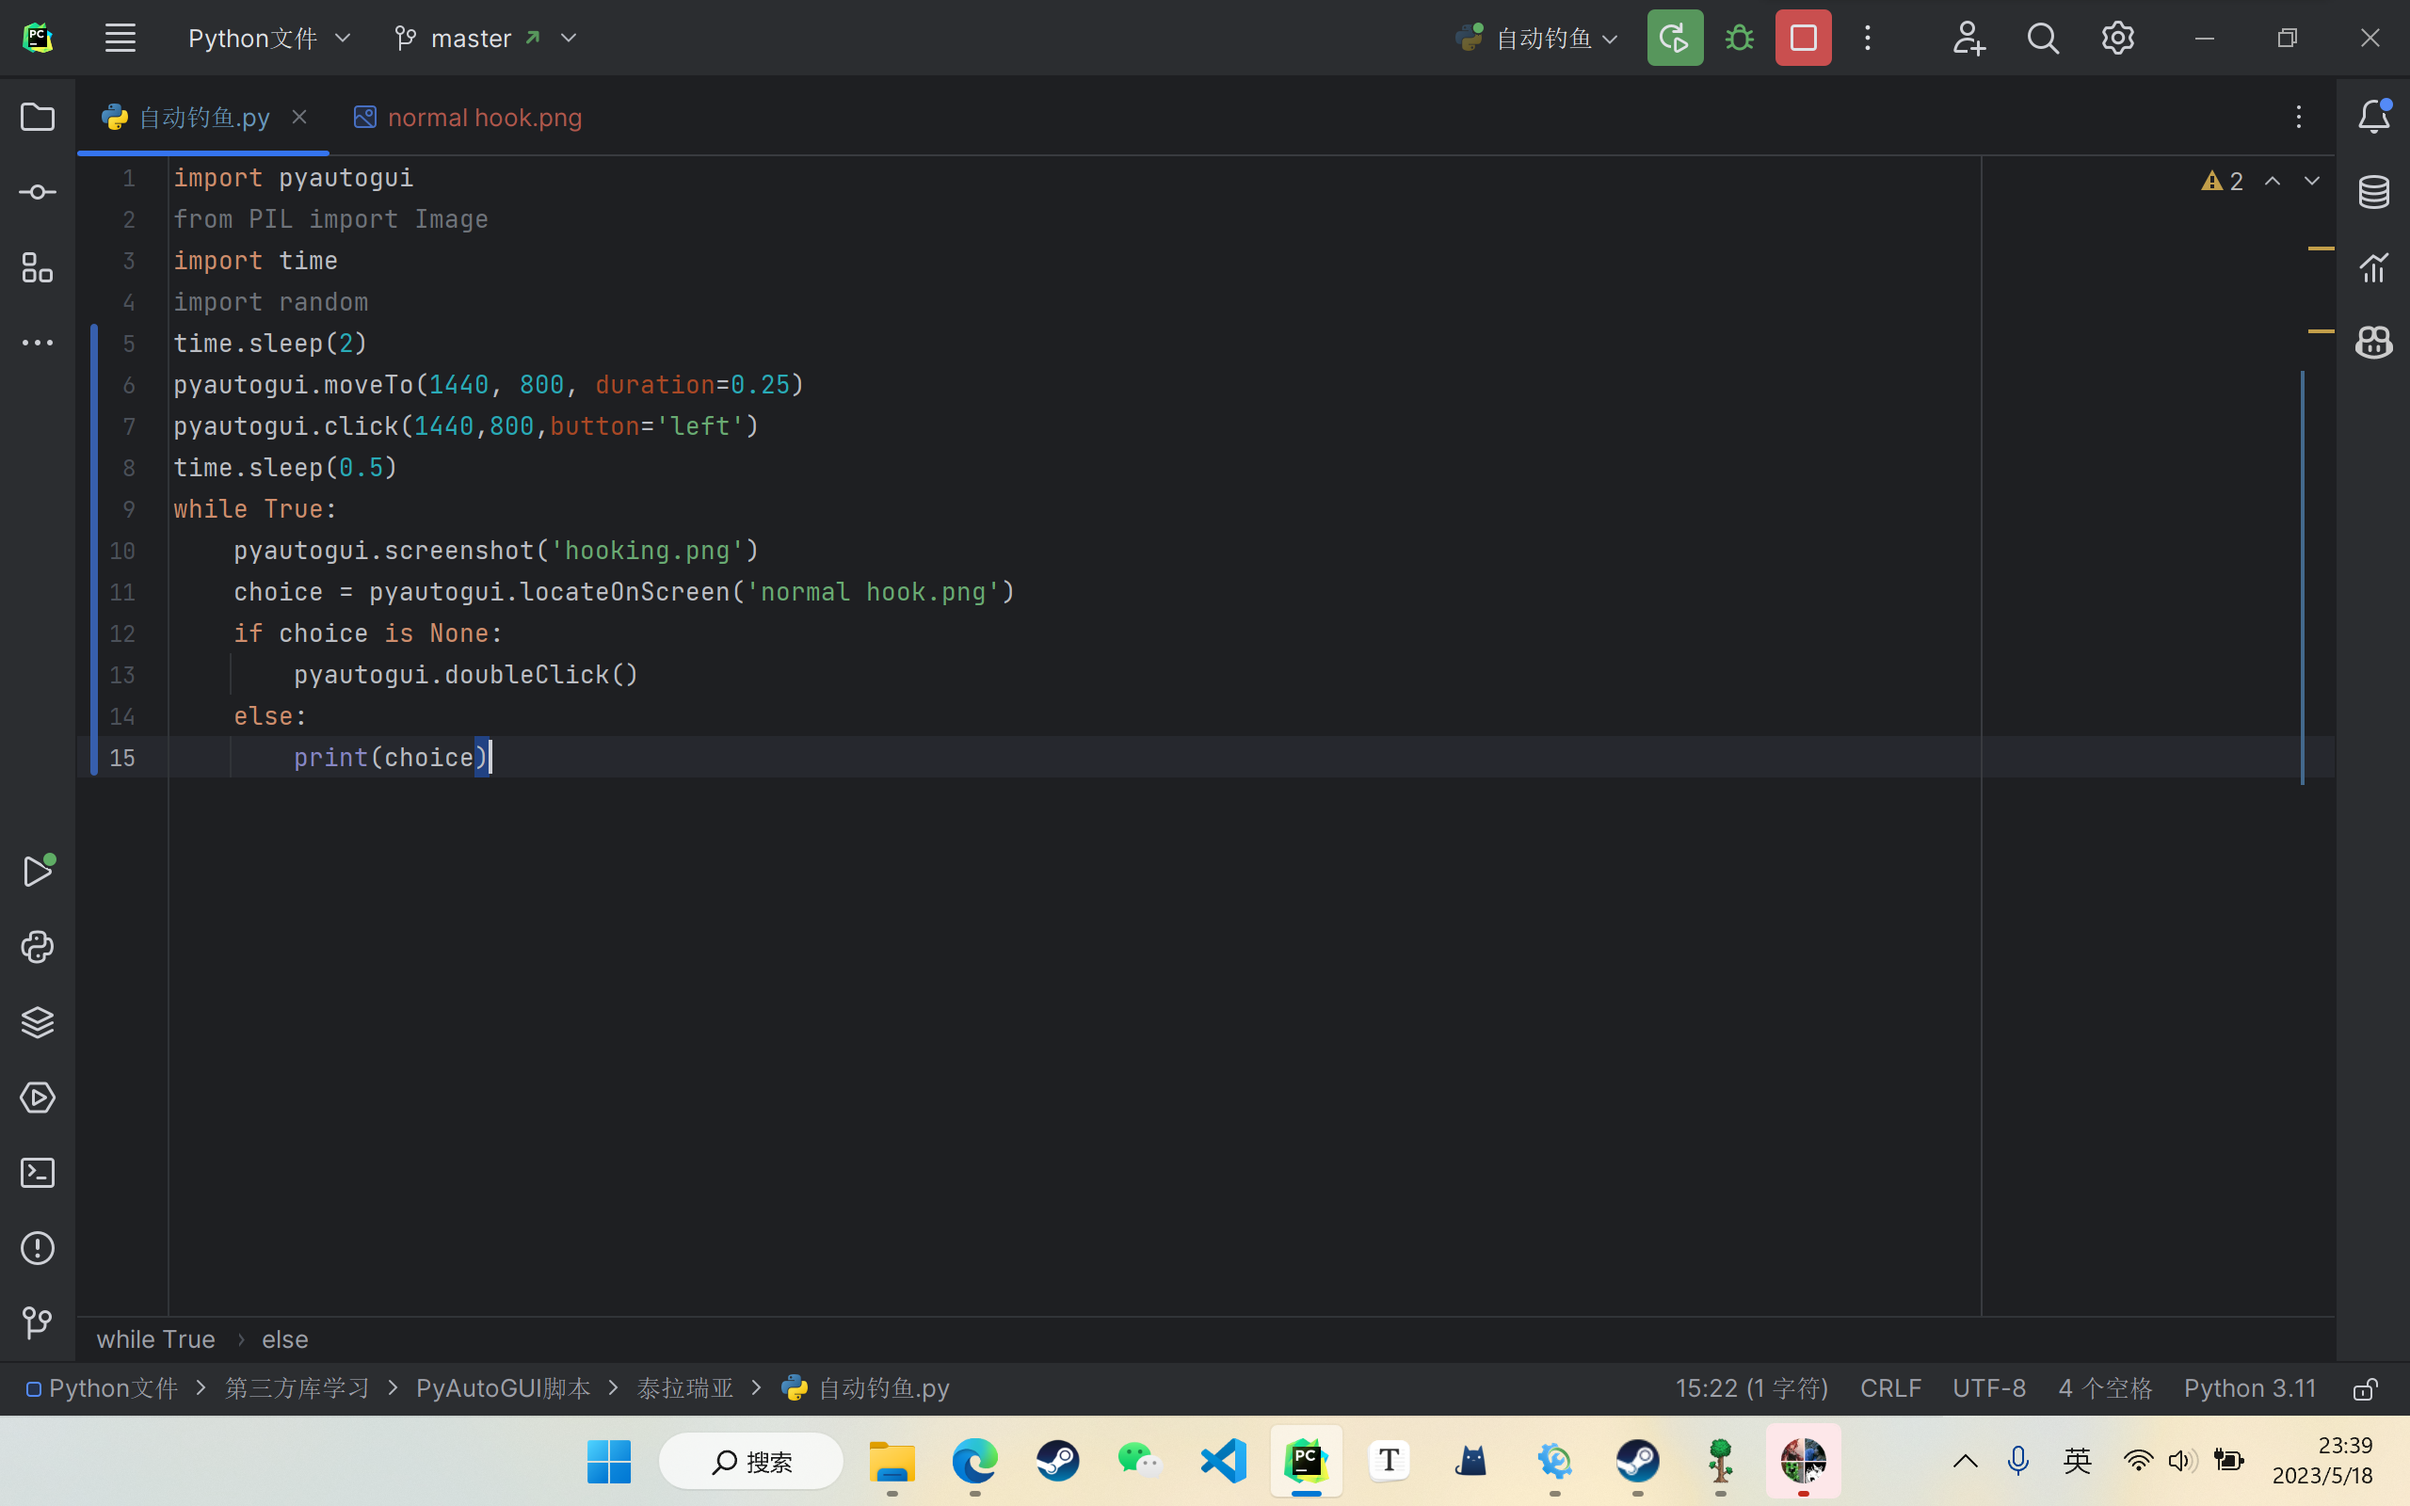
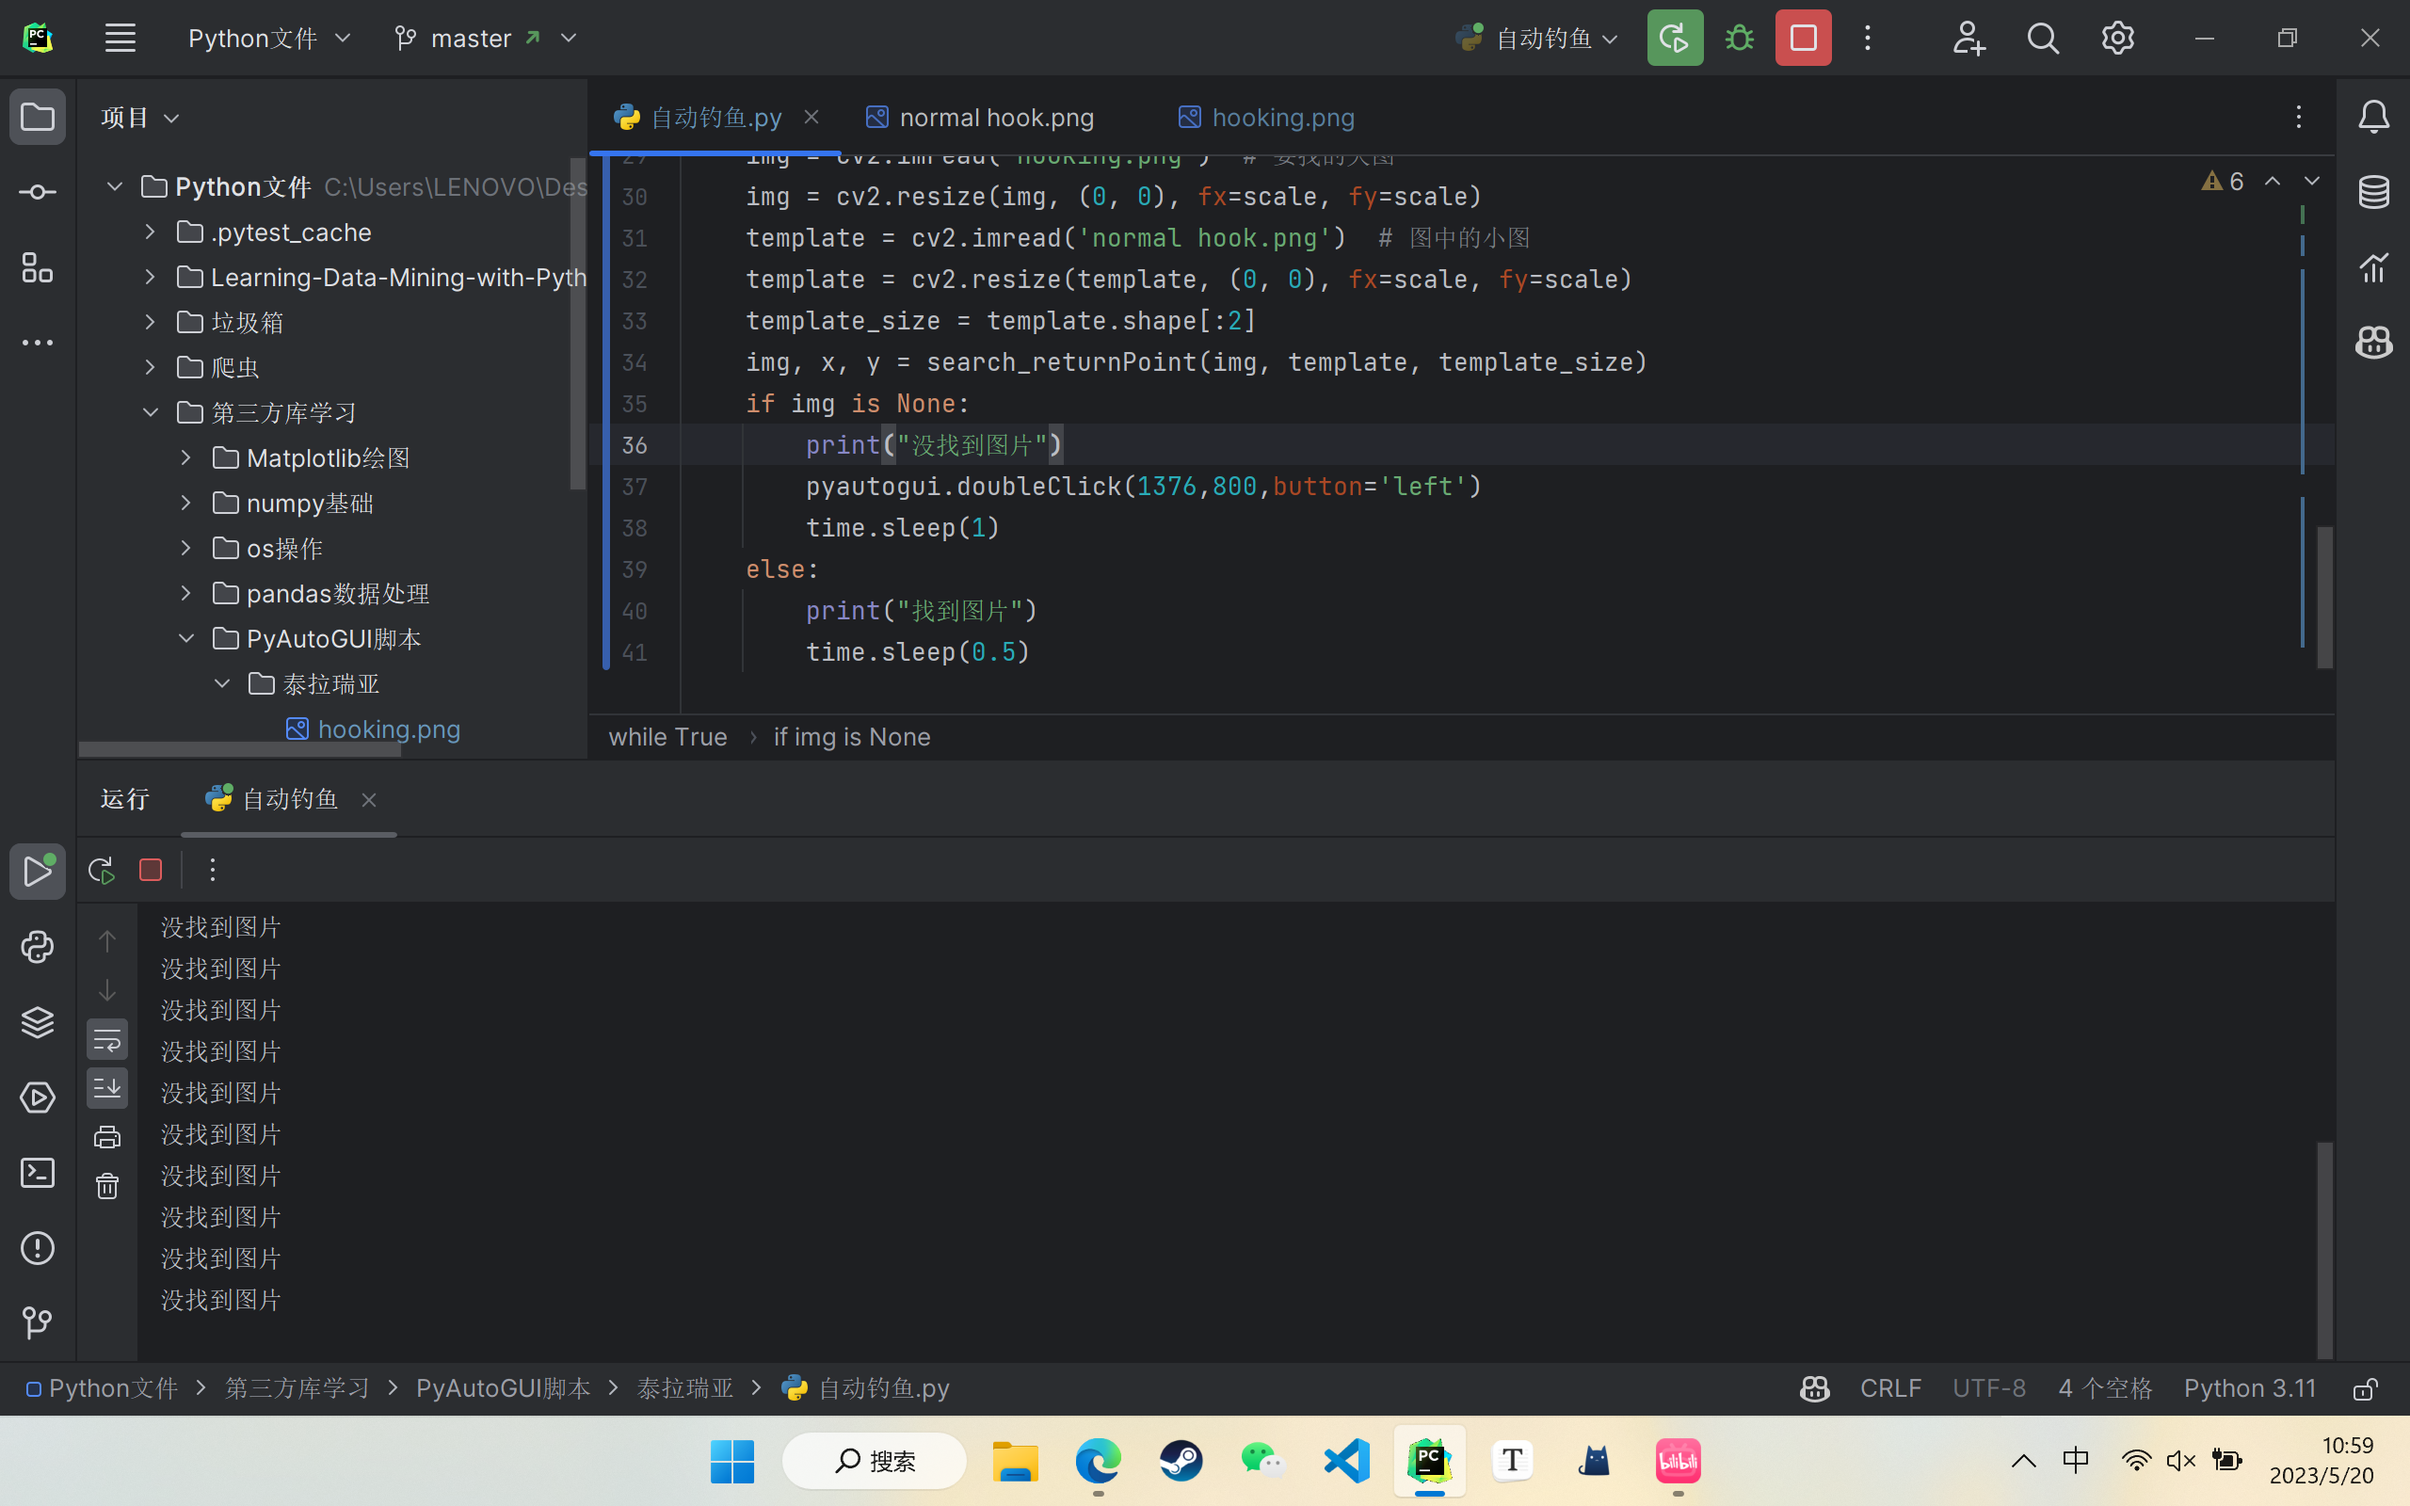
Changes

diff --git a/第三方库学习/PyAutoGUI脚本/泰拉瑞亚/自动钓鱼.py b/第三方库学习/PyAutoGUI脚本/泰拉瑞亚/自动钓鱼.py
@@ -1,11 +1,41 @@
+#!/usr/bin/env python
+# -*- encoding: utf-8 -*-
 import pyautogui
-from PIL import Image
+import cv2
+import numpy as np
 import time
-import random
-time.sleep(2)
-pyautogui.moveTo(1440, 800, duration=0.25)
-pyautogui.click(1440,800,button='left')
-time.sleep(0.5)
+# 做出开始界面
+pyautogui.alert(text='钓鱼脚本', title='钓鱼脚本', button='OK')
+
+# 找图 返回最近似的点
+def search_returnPoint(img, template, template_size):
+    img_gray = cv2.cvtColor(img, cv2.COLOR_BGR2GRAY)
+    template_ = cv2.cvtColor(template, cv2.COLOR_BGR2GRAY)
+    result = cv2.matchTemplate(img_gray, template_, cv2.TM_CCOEFF_NORMED)
+    threshold = 0.9
+    # res大于70%
+    loc = np.where(result >= threshold)
+    # 使用灰度图像中的坐标对原始RGB图像进行标记
+    point = ()
+    for pt in zip(*loc[::-1]):
+        cv2.rectangle(img, pt, (pt[0] + template_size[1], pt[1] + + template_size[0]), (7, 249, 151), 2)
+        point = pt
+    if point == ():
+        return None, None, None
+    return img, point[0] + template_size[1] / 2, point[1]
 while True:
-    if not pyautogui.pixelMatchesColor(1376,864,(60,52,56),tolerance=10):
-        pyautogui.doubleClick()
+    pyautogui.screenshot('hooking.png')
+    scale = 1
+    img = cv2.imread('hooking.png')  # 要找的大图
+    img = cv2.resize(img, (0, 0), fx=scale, fy=scale)
+    template = cv2.imread('normal hook.png')  # 图中的小图
+    template = cv2.resize(template, (0, 0), fx=scale, fy=scale)
+    template_size = template.shape[:2]
+    img, x, y = search_returnPoint(img, template, template_size)
+    if img is None:
+        print("没找到图片")
+        pyautogui.doubleClick(1376,800,button='left')
+        time.sleep(1)
+    else:
+        print("找到图片")
+        time.sleep(0.5)
